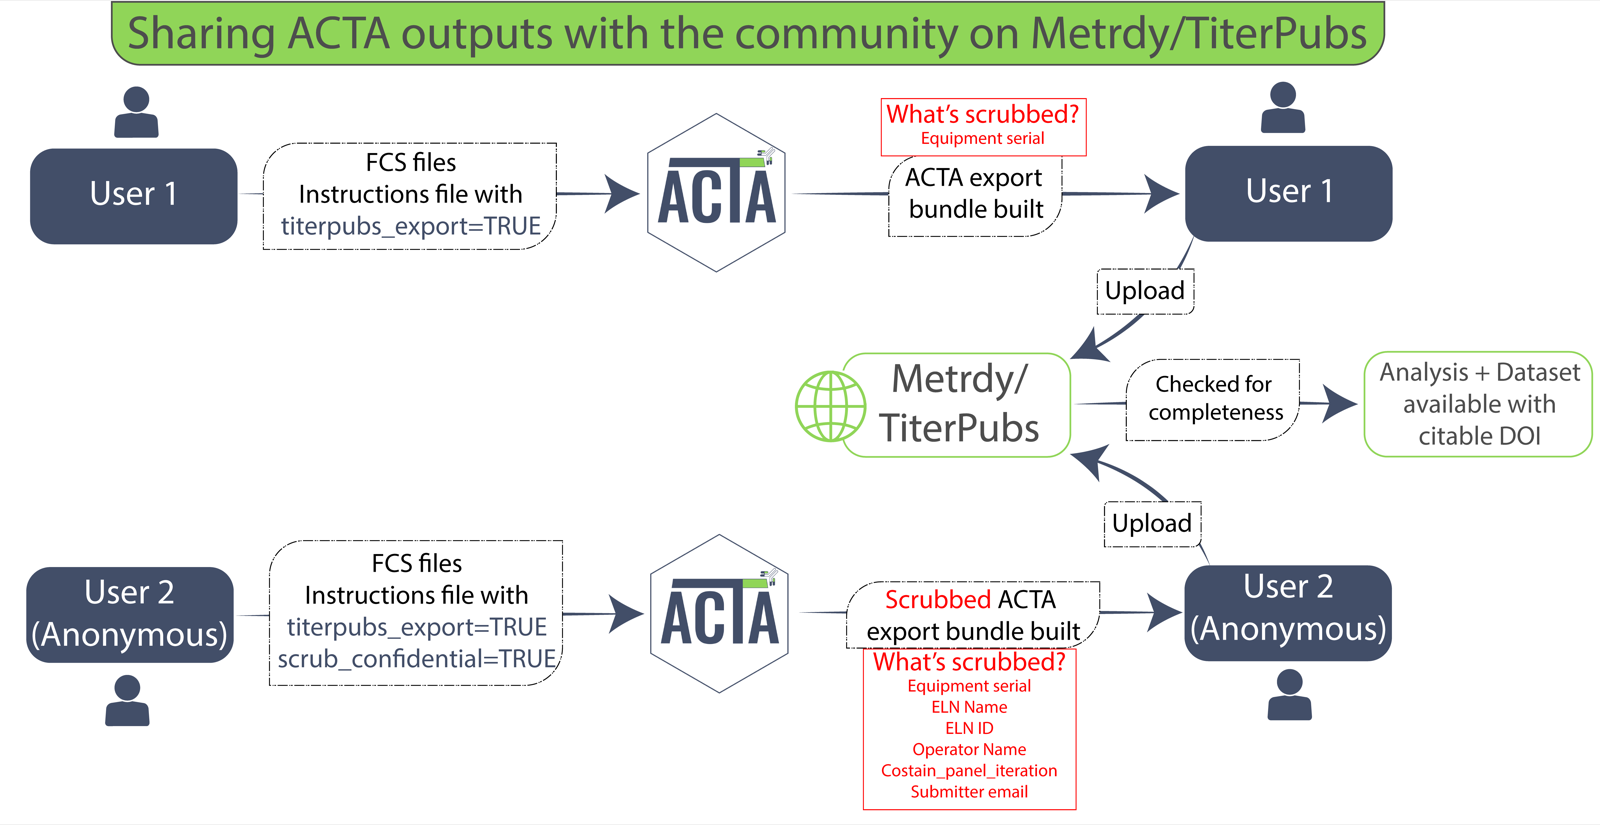
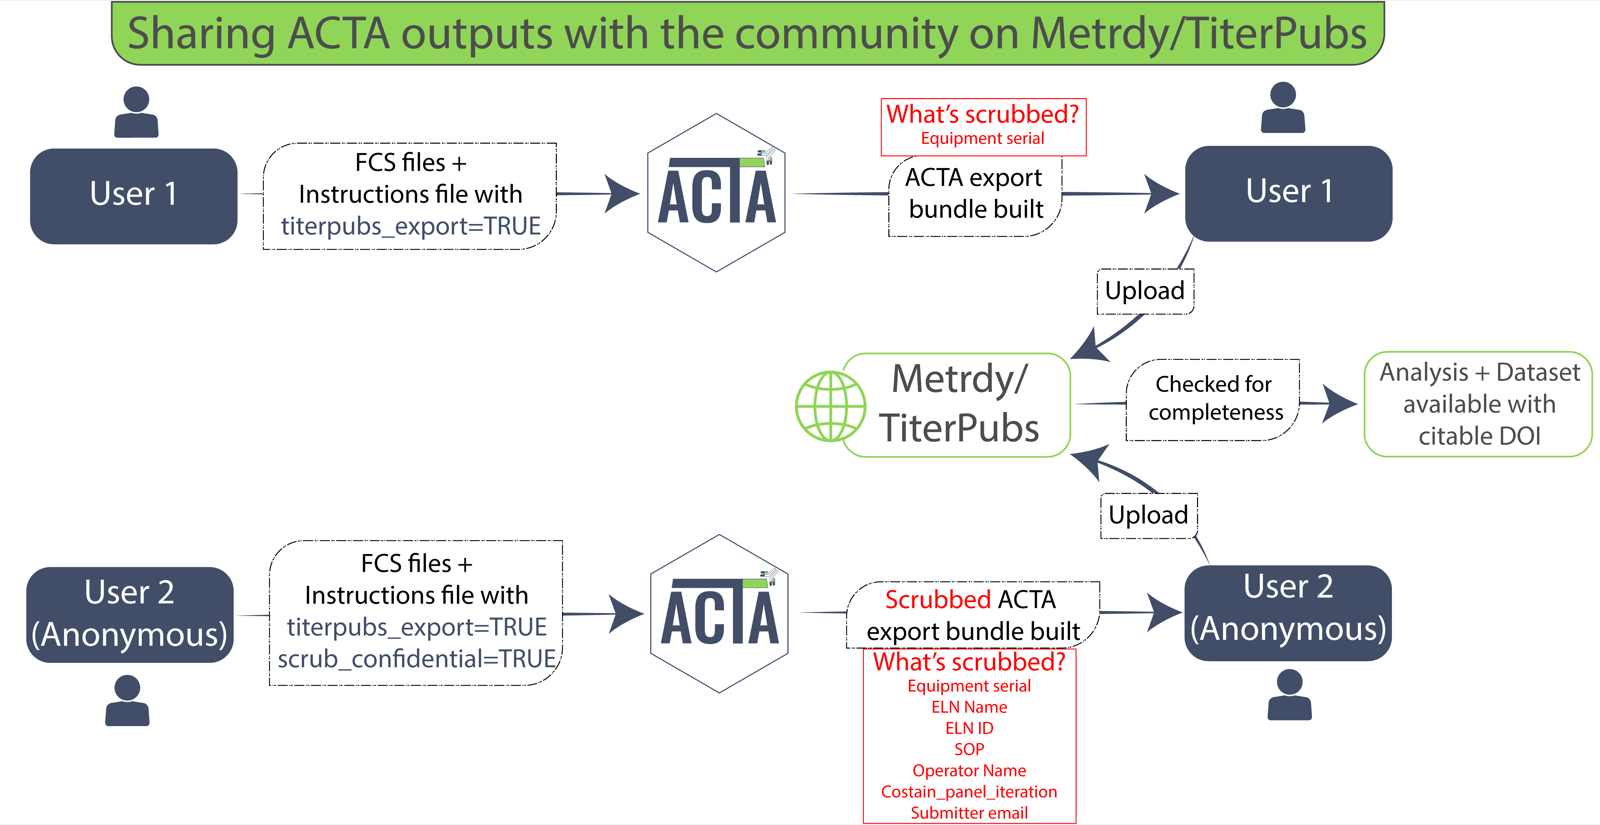
Shorter TiterPubs section; the figure now lists SOP as scrubbed
The figure now lists SOP among the values scrub_confidential removes. It has
done so since 3.6.10; the previous image predated that change and understated
what the toggle covers.

The section keeps the toggle-level summary and drops the per-field notes.
Documentation and assets only -- no version change.

diff --git a/README.md b/README.md
@@ -117,71 +117,14 @@ fill in a workbook, suggest gating arguments for a panel, or execute `run_acta()
 ![](assets/titerpubs-bundle.png)
 
 ACTA outputs can be shared on the [Metrdy/TiterPubs](https://metrdy.com/titerpubs) repository. ACTA
-creates a TiterPubs bundle (Zipped file containing ACTA outputs + FCS files) when you turn on
-the `titerpubs_export` toggle in the Info sheet of the instructions file. If you want certain details to stay anonymous in
-the submission, either leave them empty in the Info sheet or turn on the `scrub_confidential`
-toggle which scrubs certain details from your bundle (see image for details). It changes values
-inside your files but does not rename them, so keep confidential identifiers out of your file
-names — the FCS files, the instructions workbook, and the run folder itself, since the report
-prints the workbook's name.
-
-**`Test_Material` is published as you write it.** It reaches the bundle in three places — the
-instructions workbook, the export, and the submission template's `Cell type` field, which takes the
-menu term when your wording matches one and your own words otherwise. Nothing rewrites it for you,
-so keep donor and subject identifiers out of that cell. A site that needs its own vocabulary mapped
-can set `options(acta.cell_type_rules = ...)`; the rules are applied everywhere the material is
-published, including the copy of your workbook inside the bundle.
-
-**3.6.8 needs a new instructions template, and will say so.** The workbook carries
-`Info!Template_Version`, and ACTA stops with a message naming the file if it is older than 3.6.8 or
-missing. Four things moved. `Test_Material` is now `Cell_Type` and `Test_Material_Status` is now
-`Sample_Status`. `Tissue_Type` and `Culture_Status` are new `Layout_Plate` columns beside them.
-`flowjo_transformation_arg` moved from `Layout_Plate` to the Info sheet, because one transform
-covers a whole run and storing it per well meant reconciling identical cells. And the site option
-`acta.test_material_rules` is now `acta.cell_type_rules` — if you set the old name, ACTA stops
-rather than silently applying no rules. Download the current template and move your layout into it;
-there is no automatic migration, and a workbook edited to claim 3.6.8 while still carrying the old
-columns is refused too.
-
-**Tissue and cell type are separate answers.** TiterPubs has no `PBMC` option, so a material of
-`HD Human PBMCs` publishes `mononuclear cells` — which on its own could be marrow, cord blood or
-spleen. Put `Blood` in `Tissue_Type` and the pair says peripheral blood mononuclear cells in their
-own vocabulary. `Info!Tissue_Fallback` and `Info!Cell_Type_Fallback` fill a blank cell for a site
-that always titrates the same material; neither overrides an answer you gave, and both blank
-publishes blank. ACTA does not infer tissue from the material.
-
-**`Fresh or Frozen` is no longer filled in.** All four of that menu's options state both the thaw
-state and whether the cells were cultured, so a bare `Frozen` could only be published by also
-claiming no culture step. `Sample_Status` and `Culture_Status` travel in the bundled export as you
-wrote them instead.
-
-**Clonality comes from the inventory.** It is a `Clonality` column on the Master Panel Inventory's
-`Master` sheet, published as written; ACTA no longer infers `monoclonal` from a named clone. The
-inventory's optional `Lot_info` sheet supplies `Concentration for this Lot#`, matched on catalogue
-and lot. Any inventory column ACTA cannot find is skipped, not an error.
-
-**The staining protocol has its own field.** Put it in `Protocol_reference` on the Info sheet and
-it is published verbatim to the submission's `Protocol reference` column — a URL or a plain
-citation, whichever you have. Leave it blank and that column is empty. `Preparation_Protocol` is a
-different thing: the sample isolation method, for which TiterPubs offers a menu — ficoll, RBC
-lysis, mechanical dissociation and so on — and a value that is not on that menu is published in the
-off-menu row rather than dropped. `References` is a citation list, published as written and not
-parsed for anything. A workbook made before 3.6.7 has no `Protocol_reference` row; add one, or that
-column stays empty.
-
-The scrub replaces `ELN_ID` with one placeholder, so several scrubbed runs can read as the same
-experiment. To choose what a run publishes instead, add a row to the Info sheet with `Variable` set
-to `scrub_eln_placeholder` and your id in `Value` — the template does not ship that row, and
-without it the shipped constant is used. A set of related datasets can then be told apart without
-naming your notebook. The id becomes part of file names inside the bundle, so it may hold only
-letters, digits, dot, underscore and hyphen; anything else stops the run. It is advisable to
-fill in other information on the Info and `Layout_Plate` sheets to provide sufficient experimental
-and reagent context to the community to reproduce your titers under identical conditions. The
-bundle can be uploaded directly to the
-[TiterPubs repository](https://metrdy.com/titerpubs#contribute). More info can be found on Metrdy's
-[TiterGuide](https://metrdy.com/titerguide) webpage.
-
-`pdftools` is required for TiterPubs bundle generation. See the [installation](#installation) section for more info.
+creates a TiterPubs bundle (Zipped file containing ACTA outputs + FCS files) when you turn on the
+`titerpubs_export` toggle in the Info sheet of the instructions file. If you want certain details to
+stay anonymous in the submission, either leave them empty in the Info sheet or turn on the
+`scrub_confidential` toggle which scrubs certain details from your bundle (see image for details).
+It changes values inside your files but does not rename them, so keep confidential identifiers out
+of your file names — the FCS files, the instructions workbook, and the run folder itself, since the
+report prints the workbook's name. `pdftools` is required for TiterPubs bundle generation. See the
+[installation](#installation) section for more info.
 
 ## Components
 
